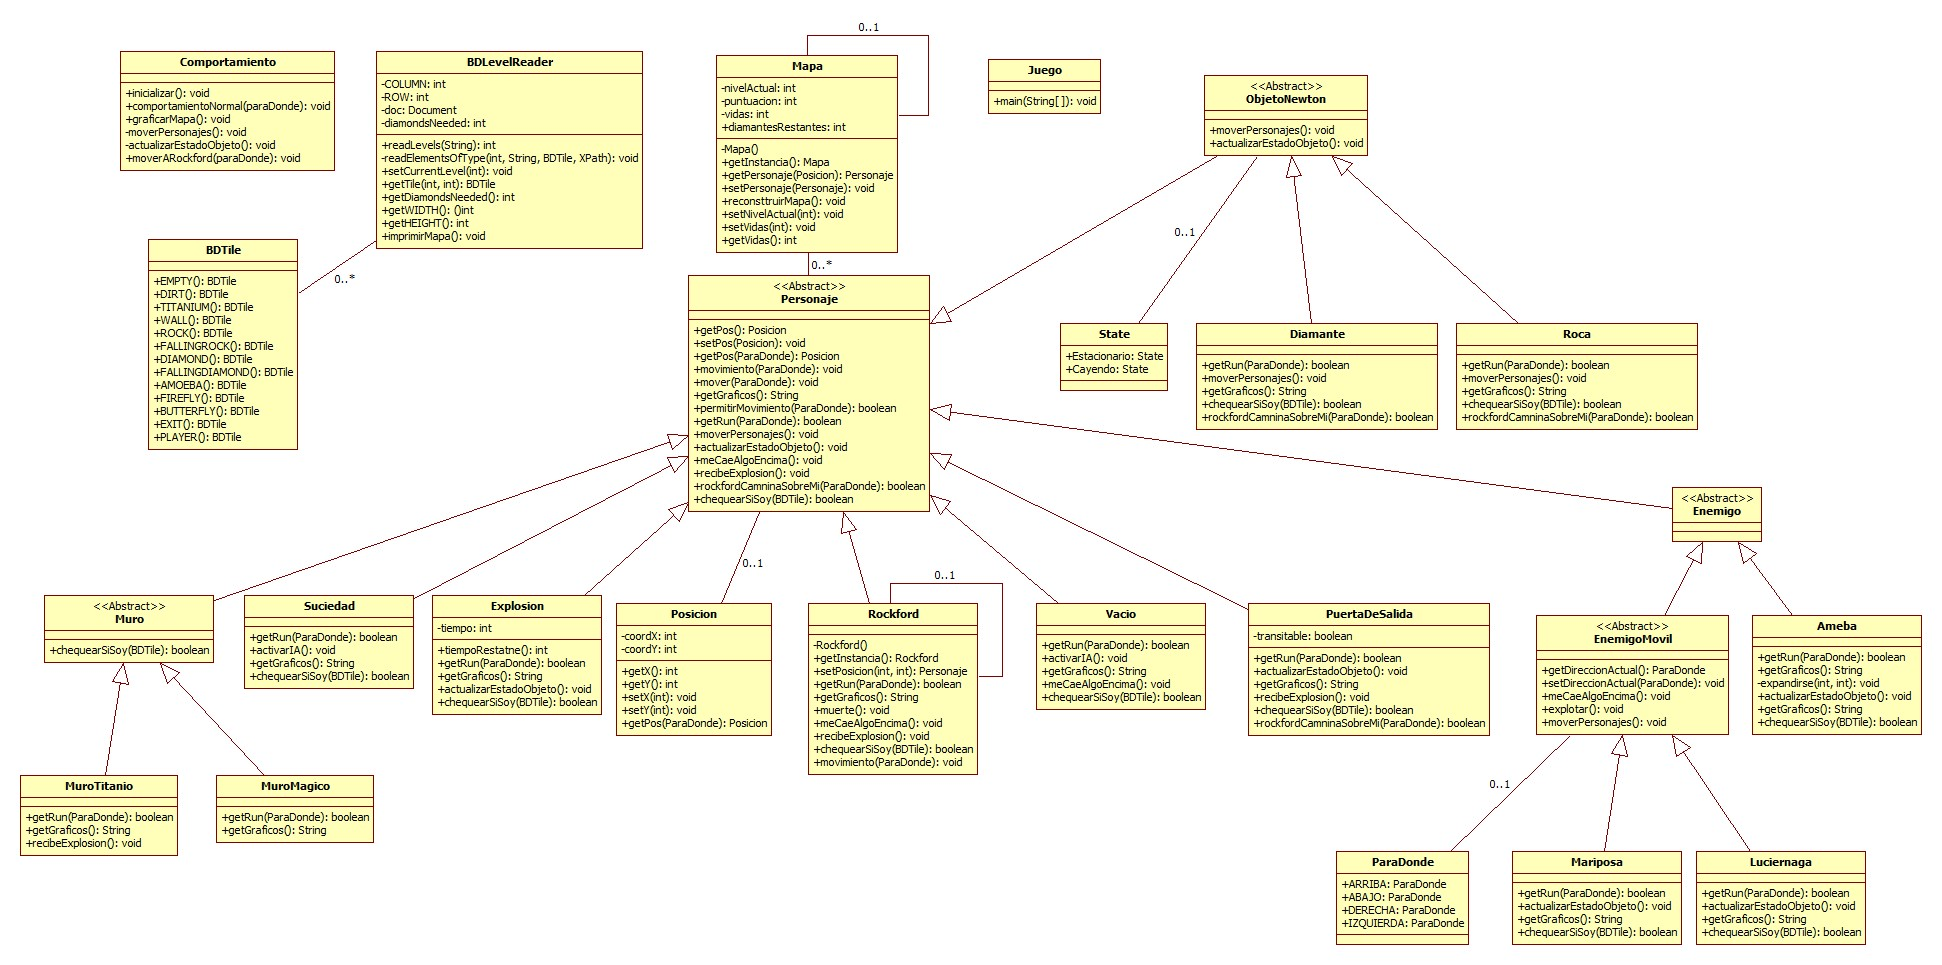
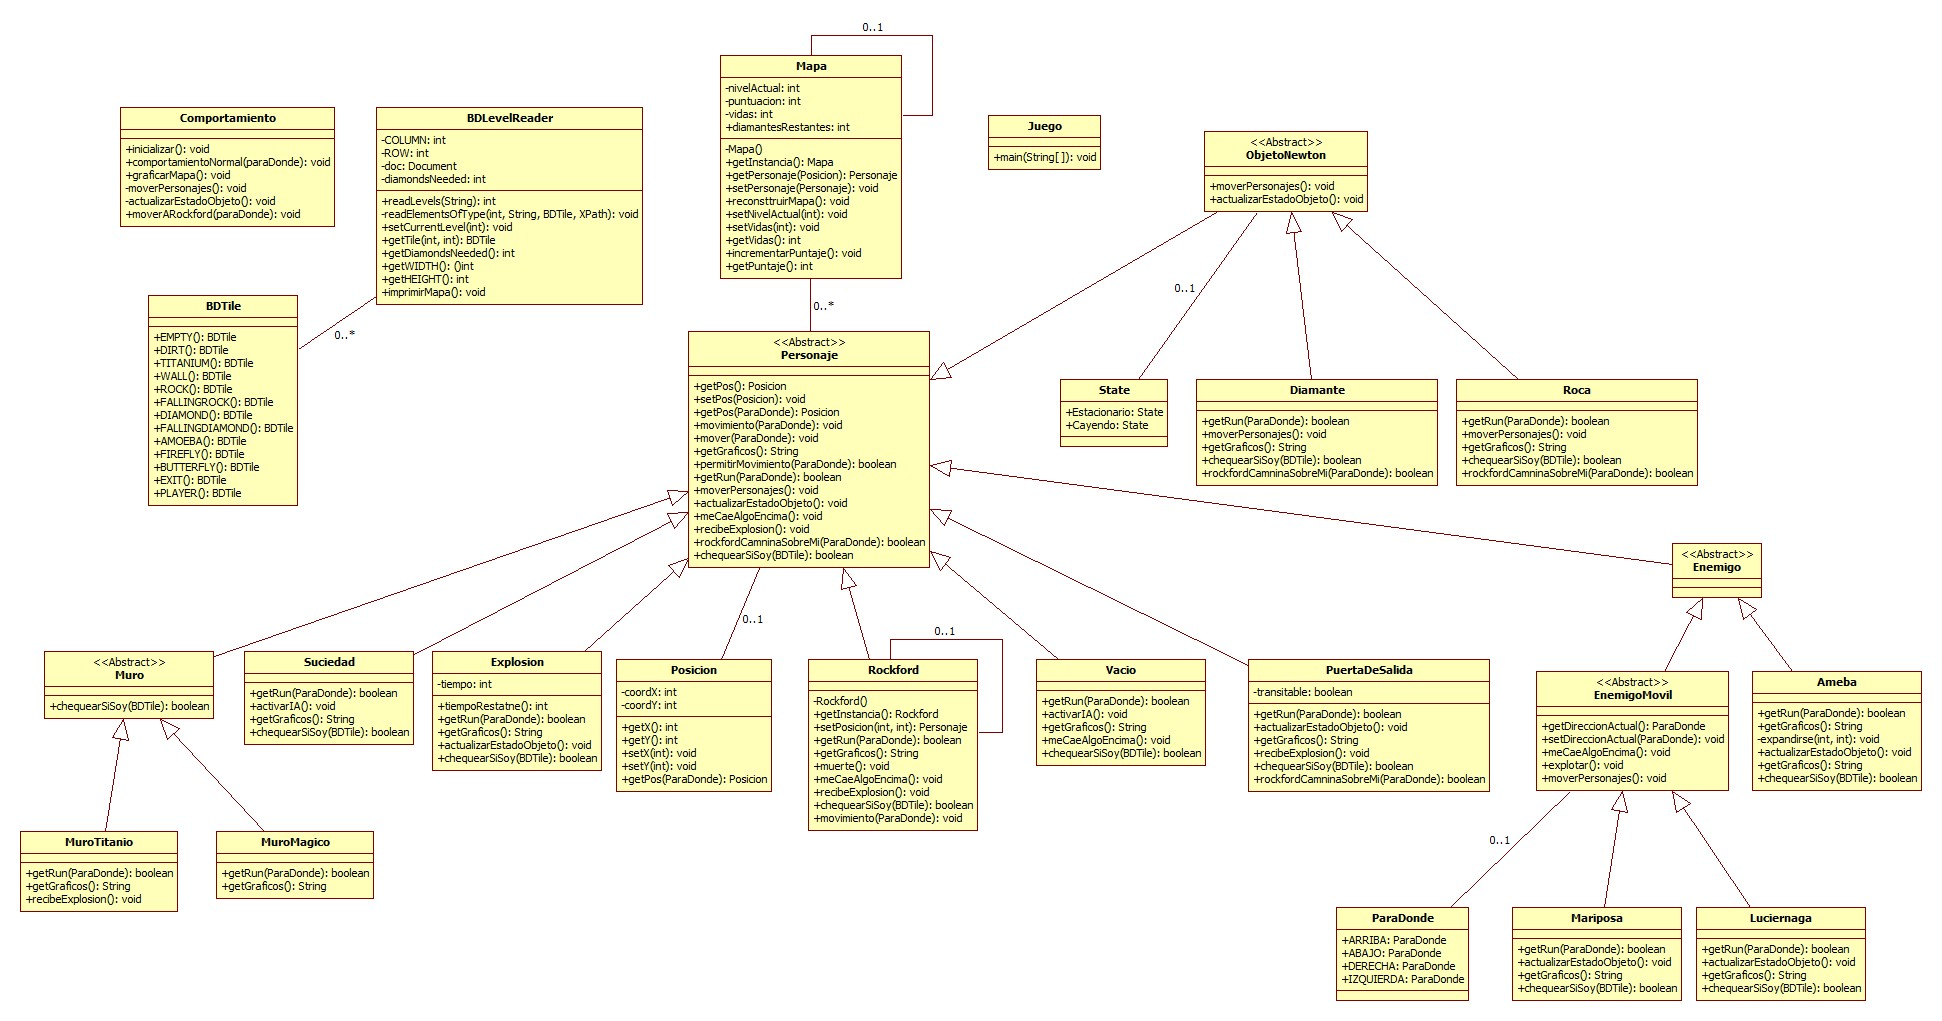
Mas arreglos, puntaje implementado y UML actualizado

diff --git a/Boulder Dash/src/boulderDash/Rockford.java b/Boulder Dash/src/boulderDash/Rockford.java
@@ -54,6 +54,7 @@ public class Rockford extends Personaje{
 		}
 		else{//Si no es una roca, me elimino a mi mismo y los diamantes restantes pasan a ser uno menos
 			Mapa.diamantesRestantes--;
+			Mapa.incrementarPuntaje();
 			Mapa.getInstancia().setPersonaje(new Vacio(super.getPos(ParaDonde.ARRIBA)) , super.getPos(ParaDonde.ARRIBA));
 			System.out.println("Diamante" + " en la posicion x=" + super.getPos(ParaDonde.ARRIBA).getX() + " y=" + super.getPos(ParaDonde.ARRIBA).getY() + " cayo encima de rockford");
 		}
@@ -75,7 +76,7 @@ public class Rockford extends Personaje{
 
 		if (Mapa.getInstancia().getPersonaje(super.getPos(dir)).rockfordCaminaSobreMi(dir)){ //Si se pudo mover
 				
-			Mapa.getInstancia().setPersonaje(this.getInstancia(),super.getPos(dir)); //Se mueve al siguiente casillero
+			Mapa.getInstancia().setPersonaje(Rockford.getInstancia(),super.getPos(dir)); //Se mueve al siguiente casillero
 			Mapa.getInstancia().setPersonaje(new Vacio(this.getPos()), this.getPos()); //Vacia el cacillero anterior
 			super.setPos(super.getPos(dir)); //Actualizo mi posicion
 				

diff --git a/Boulder Dash/src/boulderDash/Comportamiento.java b/Boulder Dash/src/boulderDash/Comportamiento.java
@@ -1,7 +1,5 @@
 package boulderDash;
 
-import java.util.Scanner;
-
 public class Comportamiento {
 	/**
 	 * Crea el mapa del nivel seleccionado.
@@ -9,11 +7,6 @@ public class Comportamiento {
 	 */
 	
 	public static void Inicializar() throws Exception{
-		/*Scanner scanner = new Scanner(System.in);
-		System.out.println("Ingrese el nivel que desea: ");
-		int nivel = scanner.nextInt();
-		scanner.close();
-		Mapa.getInstancia().setNivelActual(nivel);*/
 		Mapa.getInstancia();
 		graficarMapa();
 		actualizarEstadoObjeto();
@@ -41,7 +34,7 @@ public class Comportamiento {
 			for (int x = 0; x < 40; x++) {
 				pos.setX(x);
 				pos.setY(y);
-				System.out.print(Mapa.getInstancia().getPersonaje(pos).getClass().getName()+",");
+				System.out.print(Mapa.getInstancia().getPersonaje(pos).getGraficos()+",");
 			}
 			System.out.println();
 		}
@@ -80,7 +73,6 @@ public class Comportamiento {
 	
 	public static void moverARockford(ParaDonde donde) throws Exception{
 		Rockford.getInstancia().mover(donde);
-		
 	}
 	
 }

diff --git a/Boulder Dash/src/boulderDash/Mapa.java b/Boulder Dash/src/boulderDash/Mapa.java
@@ -1,7 +1,5 @@
 package boulderDash;
 
-import java.util.Scanner;
-
 public class Mapa {
 	
 	private static int nivelActual = 1;
@@ -105,16 +103,24 @@ public class Mapa {
 	}
 	
 	public void setNivelActual(int nivel){
-		this.nivelActual = nivel;
+		Mapa.nivelActual = nivel;
 	}
 	
 	public void setVidas(int vidas){
-		this.vidas = vidas;
+		Mapa.vidas = vidas;
 		
 	}
 	
 	public int getVidas(){
-		return this.vidas;
+		return Mapa.vidas;
 		
+	}
+	
+	public static void incrementarPuntaje(){
+		Mapa.puntuacion = Mapa.puntuacion + 100;
+	}
+	
+	public static int getPuntaje(){
+		return Mapa.puntuacion;
 	}
 }

diff --git a/Boulder Dash/src/boulderDash/Personaje.java b/Boulder Dash/src/boulderDash/Personaje.java
@@ -99,7 +99,6 @@ public abstract class Personaje {
 	
 	
 	public boolean permitirMovimiento(ParaDonde donde) throws Exception{
-		 
 		return (Mapa.getInstancia().getPersonaje(this.pos.getPos(donde)).getRun(donde));
 	}
 	

diff --git a/Boulder Dash/src/boulderDash/Diamante.java b/Boulder Dash/src/boulderDash/Diamante.java
@@ -13,7 +13,7 @@ public class Diamante extends ObjetoNewton{
 	public boolean rockfordCaminaSobreMi (ParaDonde dir){
 		
 		Mapa.diamantesRestantes--;
-		
+		Mapa.incrementarPuntaje();
 		return true;
 	}
 	
